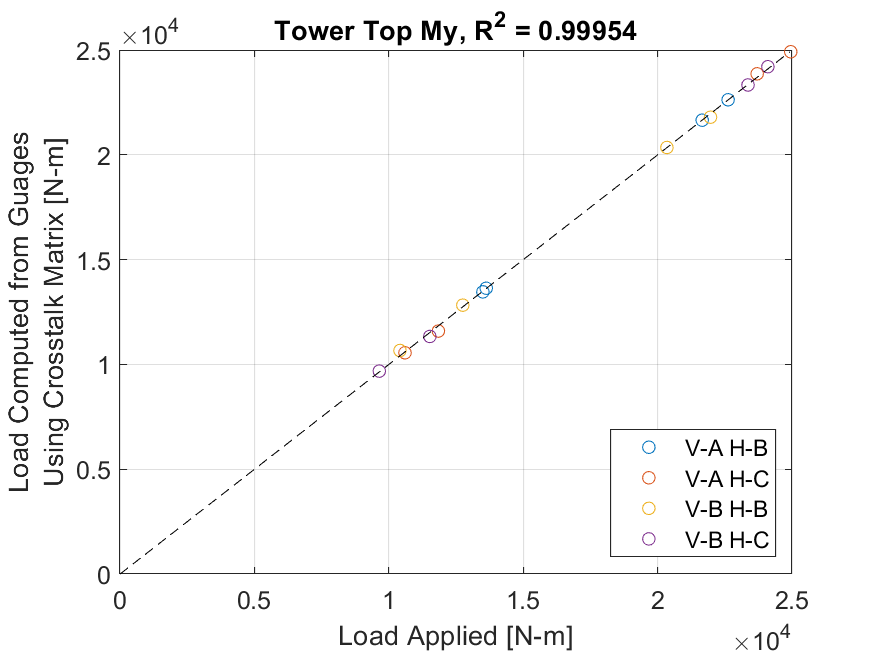
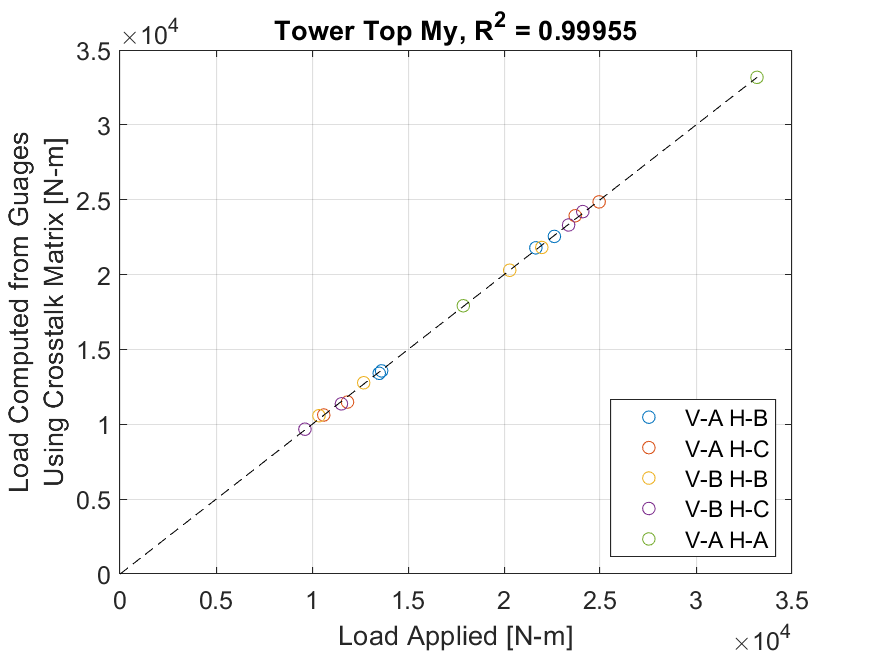
Added VA-HA case

diff --git a/processing/implementations/10m_Spanish_Fork_testing/Calibrations/Inputs/Tower Top/calibration_matrix_inputs__tower_top_pulls.m b/processing/implementations/10m_Spanish_Fork_testing/Calibrations/Inputs/Tower Top/calibration_matrix_inputs__tower_top_pulls.m
@@ -24,11 +24,19 @@ crosstalk.channel_names = {'Upper GW N','Upper GW S','Upper GW E','Upper GW W',.
 crosstalk.output_units = {'N','N','N-m','N-m'};
 calibNum = 0; % Initiate counting varible
 
-% %% V-A, H-A
-% calibNum = calibNum + 1;
-% calib(calibNum).folder = 'V-A_H-A';
-% dist(calibNum) = [];
-% % calib(calibNum).applied_load_scaling = -consts.units.lbf_to_N*[a; a*(L/2+d)/L; 0];
+%% V-A, H-A
+calibNum = calibNum + 1;
+calib(calibNum).folder = 'V-A_H-A';
+
+% % Manually recorded information
+angle =[0.8; 0.8];
+manual_applied_loads = [0, 0; 2116, 2111; 1132, 1146; 0, 0];
+coordinate = S_GW__NE_bolt + [-2*12, 5]*consts.units.inch_to_m;
+
+% Calculated inputs
+theta = repmat(atand(coordinate(2)./ coordinate(1)),2,1);
+calib(calibNum).applied_load_scaling = cosd(angle).*[sind(theta), cosd(theta), sind(theta)*tower_top_height, cosd(theta)*tower_top_height];
+calib(calibNum).corrections.load = [(1:length(manual_applied_loads))', mean(manual_applied_loads,2)];
 
 %% V-A, H-B
 calibNum = calibNum + 1;
@@ -38,7 +46,7 @@ calib(calibNum).folder = 'V-A_H-B';
 E_GW_dist = [39*12 + 11, 40*12 + 1, 40*12 + 3, 40*12 + 4]*consts.units.inch_to_m;
 S_GW_dist = [16*12 + 6, 16*12 + 5.5, 16*12 + 7, 16*12 + 7]*consts.units.inch_to_m;
 W_GW_dist = [16*12 + 9, 16*12 + 7 16*12 + 6, 16*12 + 6.5]*consts.units.inch_to_m;
-angle = [0.5, 0.3,0.30, 0.50];
+angle = [0.5; 0.3; 0.30; 0.50];
 manual_applied_loads = [0, 0; 1957, 1951; 1177.5, 1182.5; 0, 0; 1171.2, 1179; 1885, 1882.5; 0, 0];
 
 % Calculated inputs
@@ -55,7 +63,7 @@ calib(calibNum).folder = 'V-A_H-C';
 E_GW_dist = [18*12 + 1, 18*12 + 7, 18*12 + 3, 18*12 + 9]*consts.units.inch_to_m;
 S_GW_dist =[15*12 + 7, 15*12 + 1, 15*12 + 7, 15*12 + 6]*consts.units.inch_to_m;
 W_GW_dist = [39*12 + 3, 39*12 + 2, 39*12 + 1, 39*12 + 1]*consts.units.inch_to_m;
-angle = [2.8, 2.8, 2.1, 3];
+angle = [2.8; 2.8; 2.1; 3];
 manual_applied_loads = [0, 0; 0, 0; 1976.5, 1975.5; 965.5, 969.5; 0, 0; 0, 0; 880.5, 880.5; 2049, 2050; 0, 0];
 
 % Calculated inputs
@@ -69,10 +77,10 @@ calib(calibNum).folder = 'V-B_H-B';
 
 % Manually recorded information
 E_GW_dist = [42*12 + 4, 42*12 + 5, 42*12 + 11, 43*12]*consts.units.inch_to_m;
-S_GW_dist =[17*12 + 2, 17*12 + 2.5, 17*12 + 3.5, 17*12 + 7 ]*consts.units.inch_to_m;
-W_GW_dist = [16*12 + 11, 16*12 + 11.5, 16*12 + 10.5, 16*12 + 11 ]*consts.units.inch_to_m;
-angle = [(-9.3+-10.6)/2, (-10.1+-11.5)/2,...
-    (-10.4+-11.0)/2, (-9.1+-9.1)/2];
+S_GW_dist =[17*12 + 2, 17*12 + 2.5, 17*12 + 3.5, 17*12 + 7]*consts.units.inch_to_m;
+W_GW_dist = [16*12 + 11, 16*12 + 11.5, 16*12 + 10.5, 16*12 + 11]*consts.units.inch_to_m;
+angle = [(-9.3+-10.6)/2; (-10.1+-11.5)/2;...
+    (-10.4+-11.0)/2; (-9.1+-9.1)/2];
 manual_applied_loads = [0, 0; 1804, 1804; 924, 923; 0, 0; 1133, 1136; 1969, 1964; 0, 0];
 
 % Calculated inputs
@@ -85,10 +93,10 @@ calibNum = calibNum + 1;
 calib(calibNum).folder = 'V-B_H-C';
 
 % Manually recorded information
-E_GW_dist = [18*12 + 0, 18*12 + 1, 18*12 + 0, 17*12 + 11 ]*consts.units.inch_to_m;
-S_GW_dist =[15*12 + 6.5, 15*12 + 4, 15*12 + 6, 15*12 + 6 ]*consts.units.inch_to_m;
-W_GW_dist = [37*12 + 10, 37*12 + 5, 37*12 + 8, 37*12 + 7 ]*consts.units.inch_to_m;
-angle =[-11.9, -12.3, -11.8, -11.9];
+E_GW_dist = [18*12 + 0, 18*12 + 1, 18*12 + 0, 17*12 + 11]*consts.units.inch_to_m;
+S_GW_dist =[15*12 + 6.5, 15*12 + 4, 15*12 + 6, 15*12 + 6]*consts.units.inch_to_m;
+W_GW_dist = [37*12 + 10, 37*12 + 5, 37*12 + 8, 37*12 + 7]*consts.units.inch_to_m;
+angle =[-11.9; -12.3; -11.8; -11.9];
 manual_applied_loads = [0, 0; 1982, 1979; 815, 808.5; 0, 0; 975, 976; 2043.5, 2045; 0, 0];
 
 % Calculated inputs
@@ -97,13 +105,4 @@ calib(calibNum).applied_load_scaling = cosd(angle).*[sind(theta), cosd(theta), s
 calib(calibNum).corrections.load = [(1:length(manual_applied_loads))', mean(manual_applied_loads,2)];
 
 
-%% V-A, H-A
-% calibNum = calibNum + 1;
-% calib(calibNum).folder = 'V-A_H-A';
 
-% % Manually recorded information
-% angle =[0.8, 0.8];
-% manual_applied_loads = [0, 0; 2116, 2111; 1132, 1146; 0, 0];
-% 
-% % Calculated inputs
-% calib(calibNum).corrections.load = [(1:length(manual_applied_loads))', mean(manual_applied_loads,2)];
